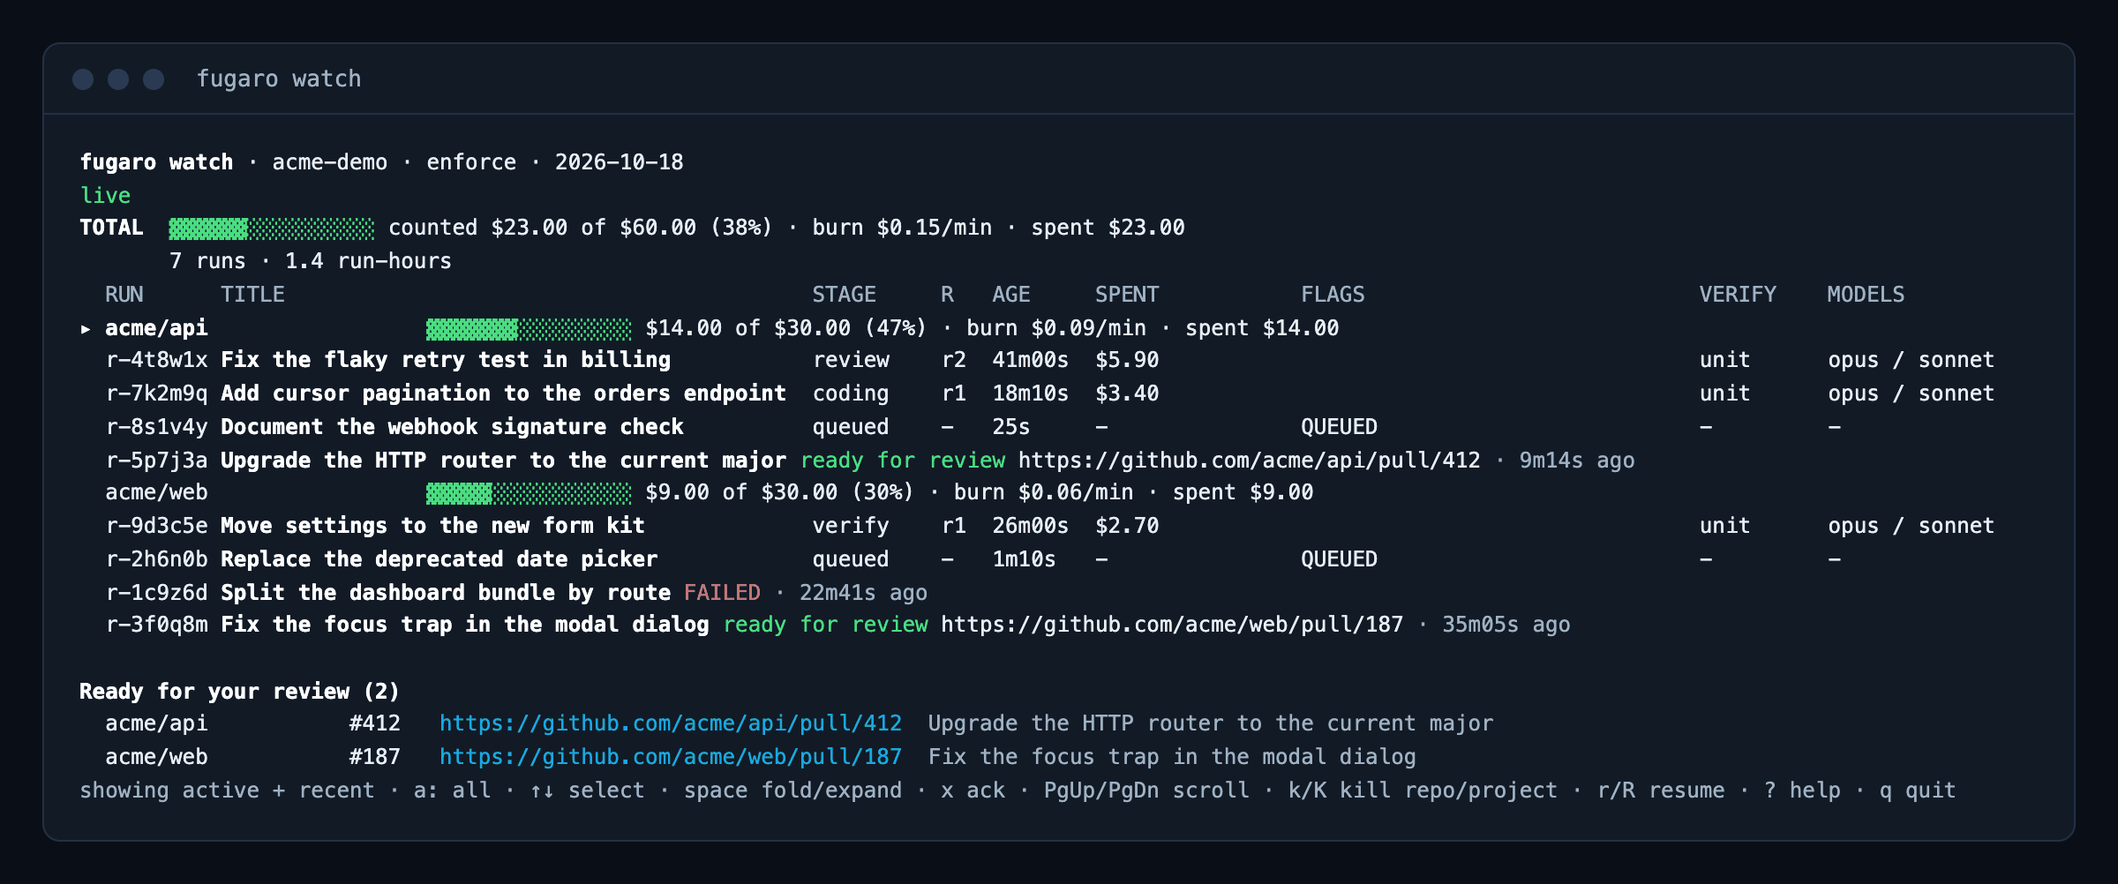
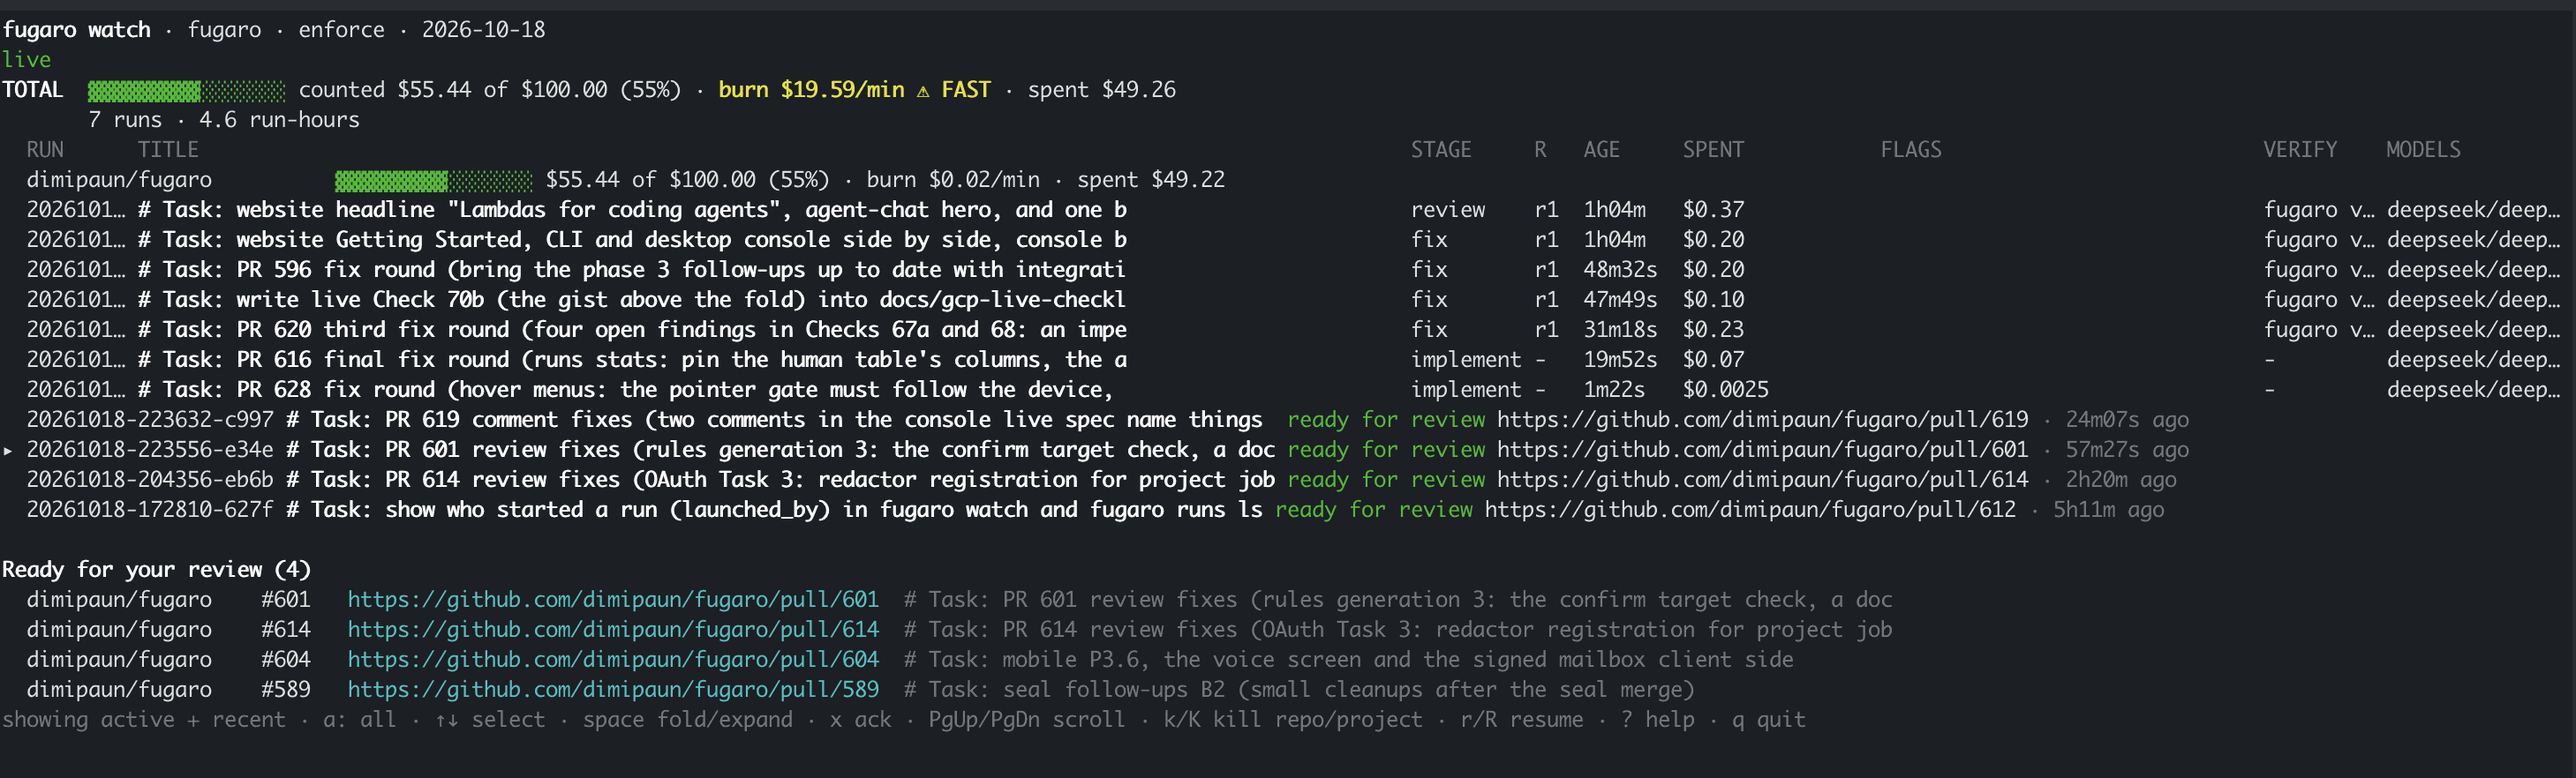
website: replace the fixture watch image with the owner's real capture
Real fugaro watch capture by the owner (2026-10-18), 2918x882, quantised to 48
colours, 130,533 bytes (from 510,664). Text transcription and README note updated.
The transcription's column spacing is approximate.

Claude-Session: https://claude.ai/code/session_01MrRBKUh6edk8GBF6dtvcQJ

diff --git a/docs/website/redesign/README.md b/docs/website/redesign/README.md
@@ -78,29 +78,17 @@ The owner accepted every recommendation of D180 to D192, as written in `reconcil
 
 ## The `fugaro watch` screenshot (owner spec of 2026-10-18, item 5)
 
-`website/public/images/fugaro-watch.png` (2400 x 1002 px, shown at 1200 logical) is a picture of the
-screen `fugaro watch` draws while jobs run. `website/public/images/fugaro-watch.txt` holds the exact
-plain text the renderer produced, for alt text and as a text fallback. **Every name, run ID, title,
-amount and age in it is invented** (repositories `acme/api` and `acme/web`, project `acme-demo`);
-nothing comes from a real run, installation, account or e-mail address.
+`website/public/images/fugaro-watch.png` (2918 x 882 px, a 2x retina capture, so 1459 x 441 logical) is a
+real screenshot of `fugaro watch` running on the owner's dev installation, taken by the owner on
+2026-10-18. It is not a fixture and not generated. It shows the owner's real run titles, spend, run IDs
+and pull request links of `dimipaun/fugaro`; the owner decided to use it as is. D190 ("screenshots are
+regenerated and never committed") is waived by the owner for this one image, as it was for the first
+version. `website/public/images/fugaro-watch.txt` is a hand transcription of what the image shows, one
+line per terminal line, for alt text and as a text fallback (column spacing is approximate).
 
-How it was made (the harness is not committed; this is its logic, so it can be redone):
+The only processing is a lossless-to-near-lossless size reduction: the PNG was quantised to 48 colours
+without dithering and stripped of metadata (ImageMagick), from 510,664 bytes to 130,533 bytes. The text
+stays sharp and the green and yellow words keep their colours. No row or text was cropped or edited.
 
-1. A throwaway Go test inside `internal/watch` (deleted afterwards) built a `watch.View` by hand: two
-   repository blocks with live runs in the coding, review and verify stages, then `MergeQueued` for two
-   queued runs and `MergeFinished` for one failed and two succeeded runs with invented PR links. Repository
-   slugs went through `budget.Key`, as in production, so queued and finished rows land in the right block.
-2. It called the real `watch.Render` at width 150 with `Color: true`, `Ready: ReadyRowsOf(v)` and the
-   first repository selected, and wrote the frame with its ANSI colour codes, and again without colour
-   (the `.txt` file). Nothing in the picture is typed by hand except the fixture's data.
-3. The ANSI text was turned into HTML (one `<pre>`, the renderer's SGR codes mapped to the site's palette:
-   ground `#0A0E16`, surface `#121A26`, text `#E6EEF5`, muted `#9FB2C4`, accent `#17A8E6`, green and red for
-   the renderer's green and red) under a plain title bar with three dots, and screenshotted with
-   Playwright 1.49.1 (Chromium headless shell) at `deviceScaleFactor` 2.
-4. The PNG was reduced to a 128-colour palette without dithering (Pillow), from 303 KB to 107 KB; the
-   text stays sharp and the failed row is still red.
-
-Size: 107 KB, inside the enforced byte budgets (`website/test/budget.mjs` has no per-image figure; its
-per-page and whole-site ceilings are far above this). It is not yet placed on any page. D190 says
-screenshots are regenerated and never committed; this one is committed on the owner's explicit
-instruction, as a site asset that is not a capture of the product's live state.
+Size: 130,533 bytes, inside the enforced byte budgets (`website/test/budget.mjs`: 853,602 per page,
+2,941,224 for the site). It is not yet placed on any page.
